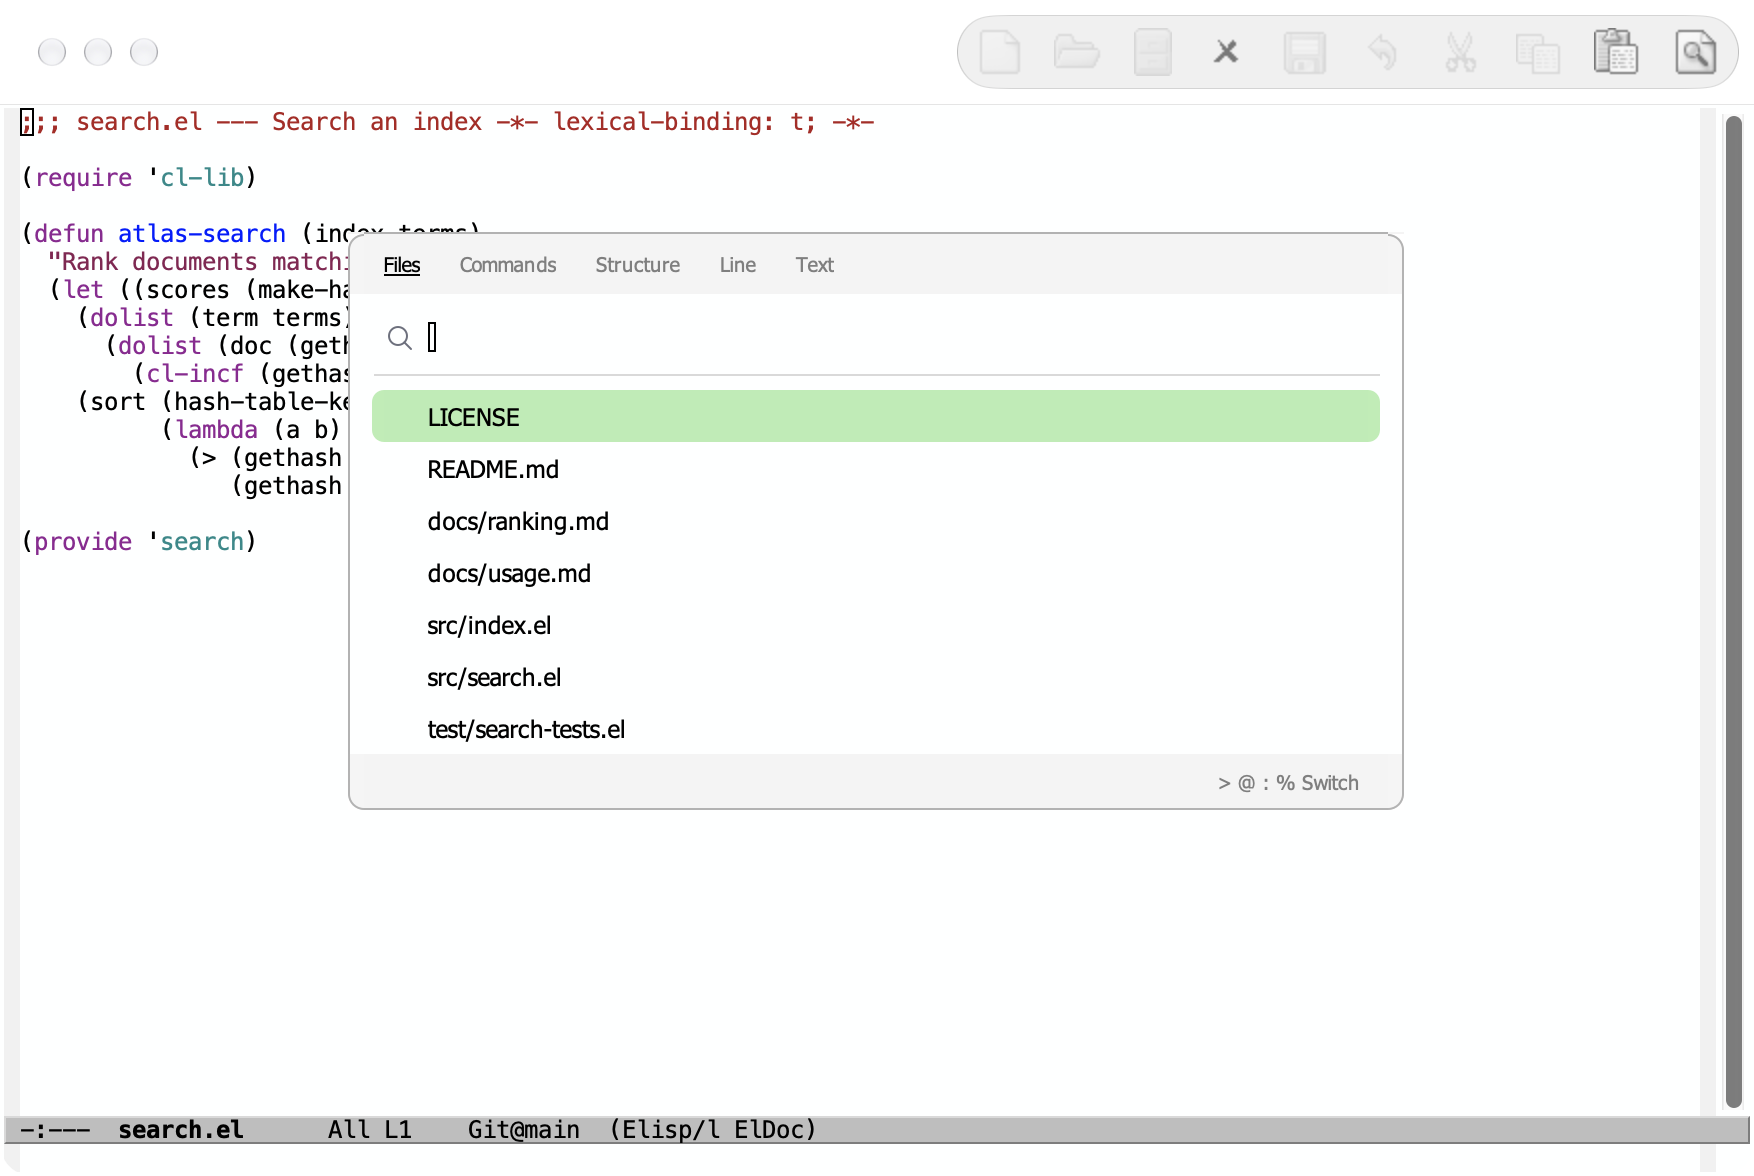
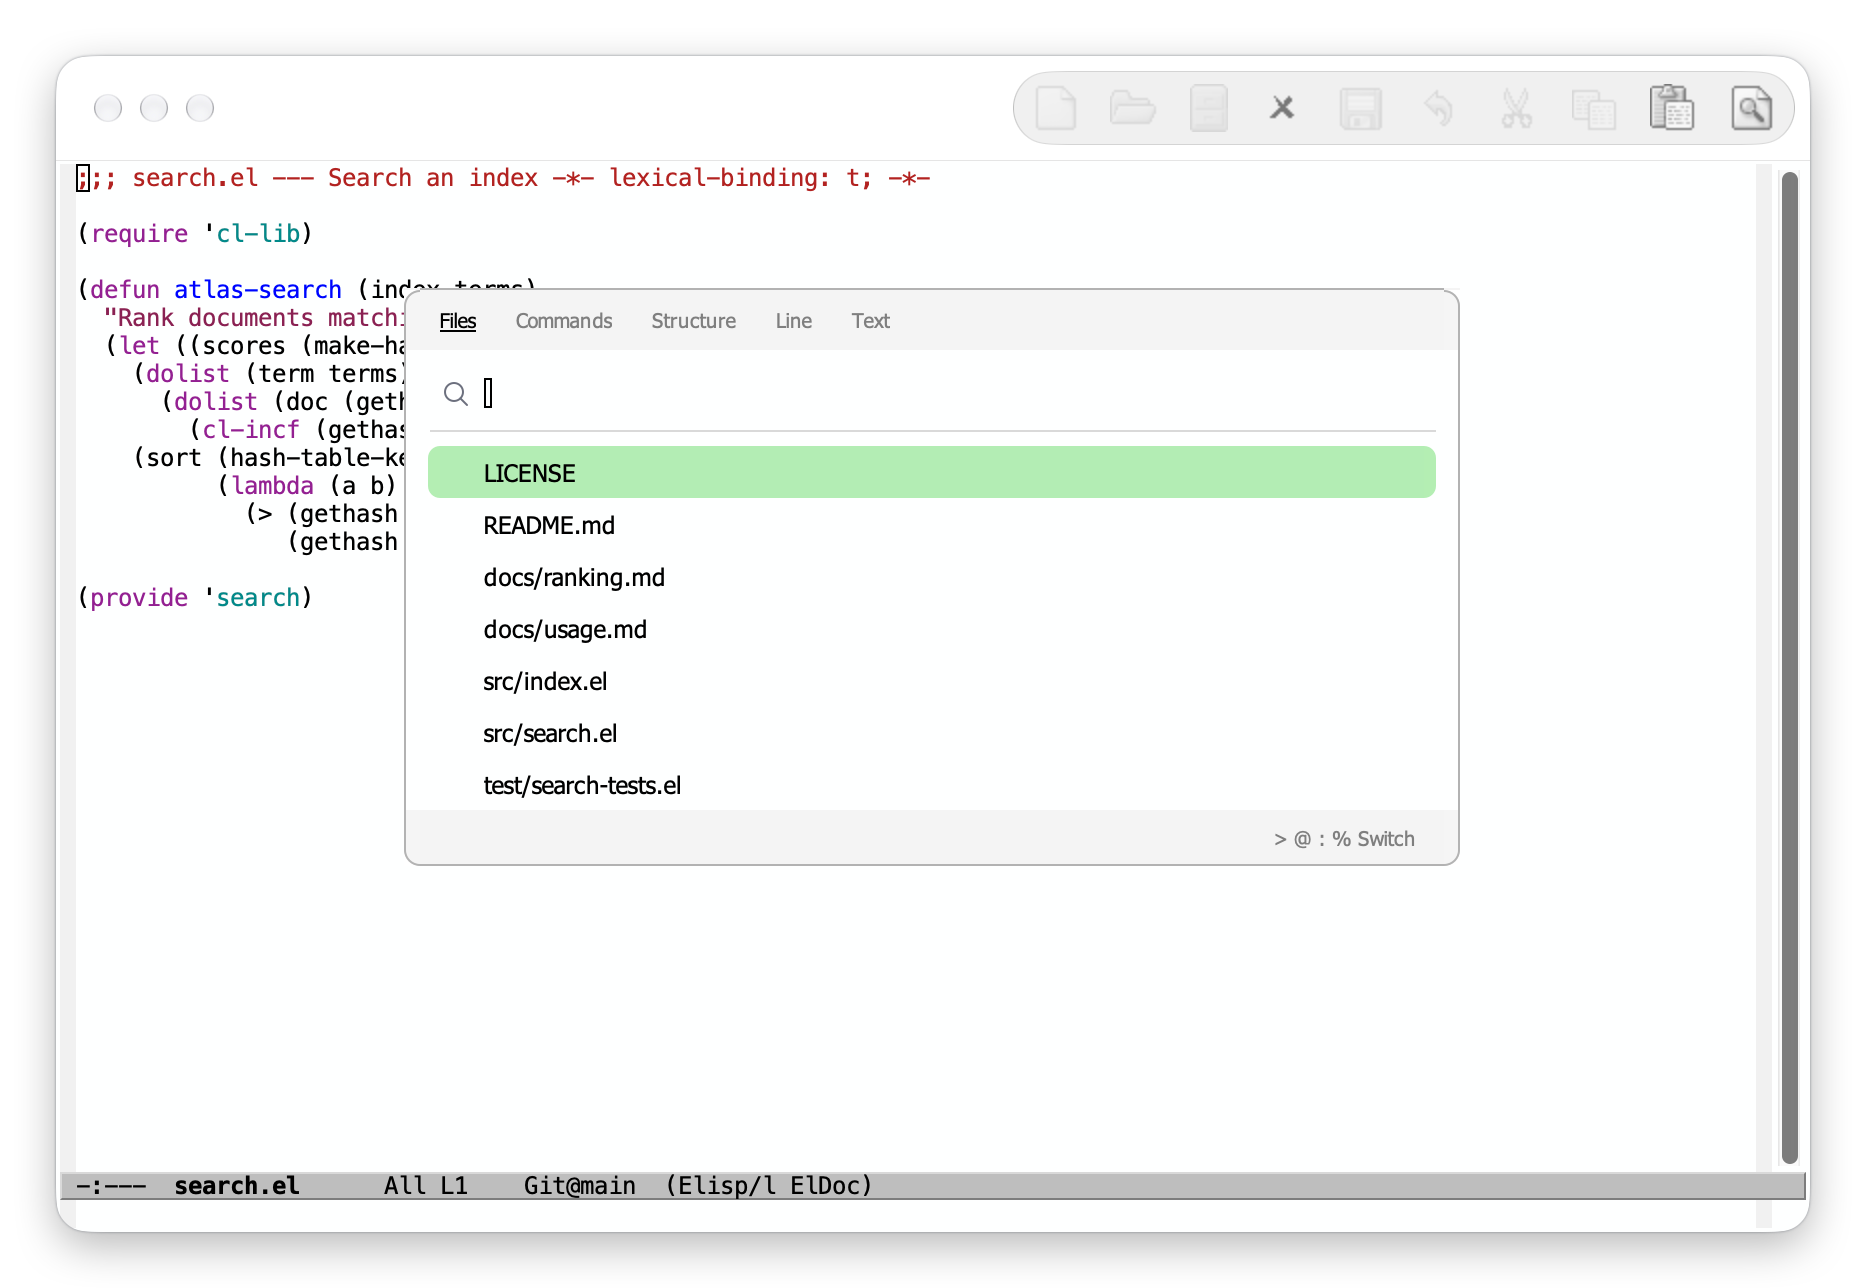
Outline the screenshots so they stand out on any page

diff --git a/docs/screenshots.md b/docs/screenshots.md
@@ -30,9 +30,13 @@ this checkout or your Emacs configuration. The project's path is available in
 `palette-islands-demo-root` and in `*Messages*`; it can be removed after
 closing the demo Emacs.
 
-Wait for the panel to appear, then capture the Emacs window. The committed PNG
-includes the native title bar and toolbar, without the desktop or a window
-shadow. No UI elements are redrawn or composited.
+Wait for the panel to appear, then capture the Emacs window, without the
+desktop or the system's window shadow. The capture includes the native title
+bar and toolbar. No UI elements are redrawn or composited.
+
+Each committed PNG then gets a transparent 28-point margin holding a soft drop
+shadow and a thin gray outline, following the window's own shape, so that the
+window stands out on both light and dark pages. The window's pixels are unchanged.
 
 ## Personal configuration capture
 
@@ -41,5 +45,5 @@ The current `hero.png` loads the actual `.emacs.d/early-init.el` and
 separate graphical Emacs process, followed by the same demo script. Runtime
 files are redirected to a temporary `user-emacs-directory`; the existing
 Tree-sitter grammars are linked there. The frame is resized to 1300 × 830
-content pixels and `sea` is typed into the search window. It is a direct window
-capture, including native window chrome.
+content pixels and `sea` is typed into the search window. It is a window capture,
+including native window chrome, with the margin described above.
